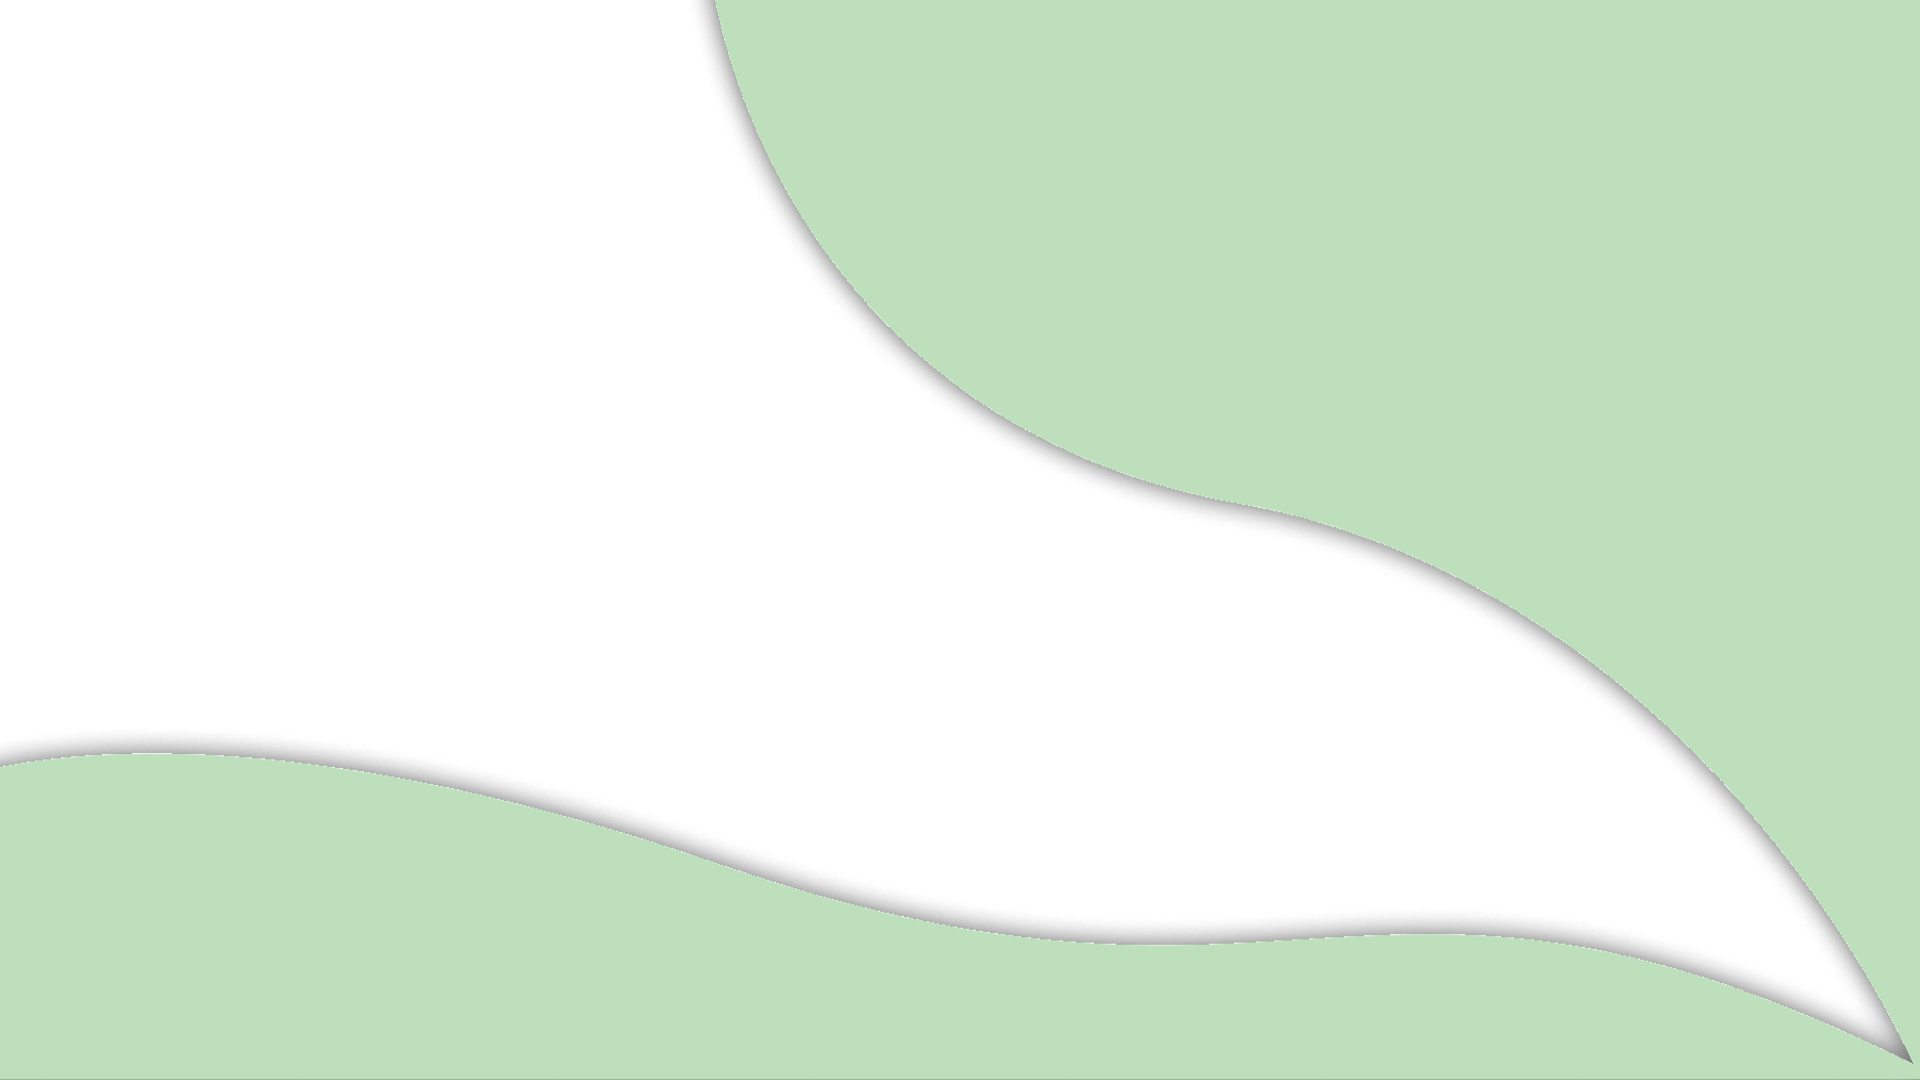
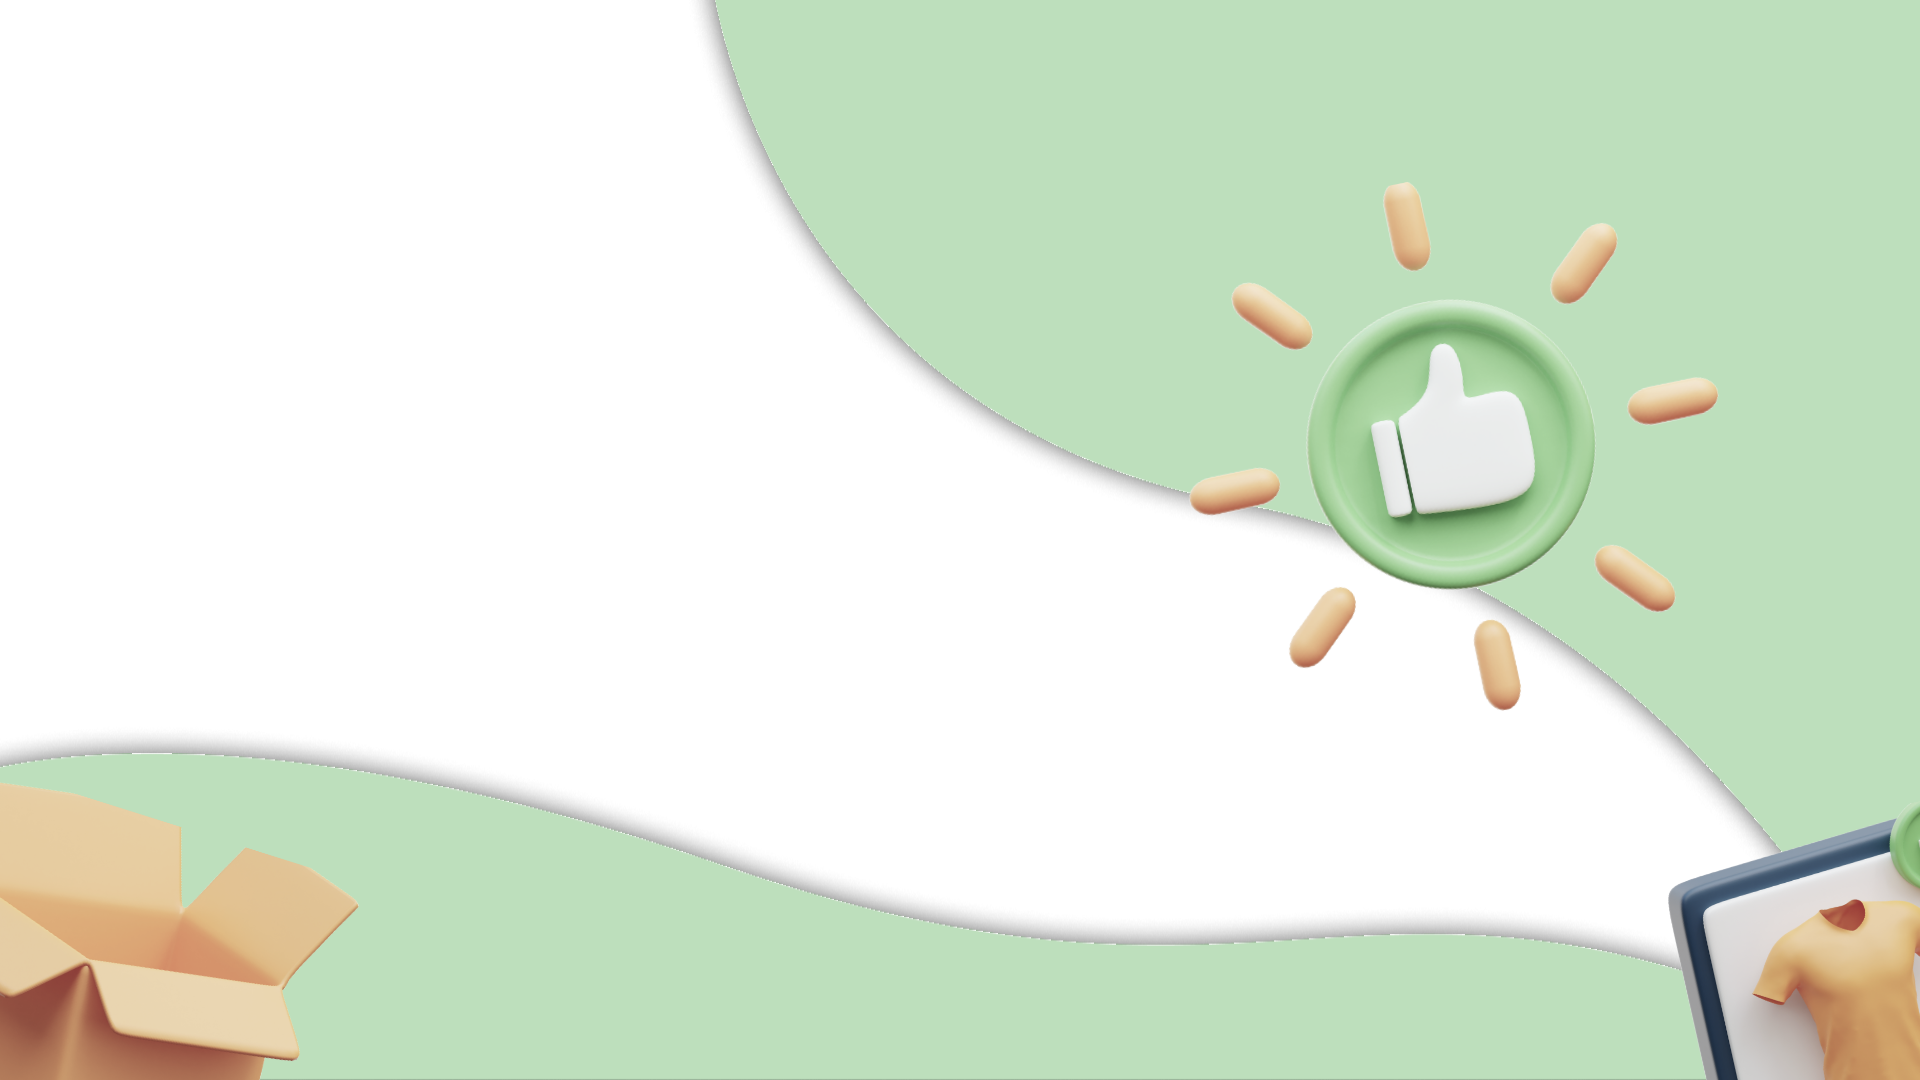
landing page changes

diff --git a/index.html b/index.html
@@ -46,19 +46,18 @@
 
                 <ul class="site-menu main-menu js-clone-nav ml-auto ">
                   <li class="active"><a href="#" class="nav-link">Home</a></li>
-                  <li><a href="#" class="nav-link">Listings</a></li>
-                  <li><a href="#" class="nav-link">Contact Us</a></li>
+                  <li><a href="listings.html" class="nav-link">Listings</a></li>
+                  <li><a href="contact.html" class="nav-link">Contact Us</a></li>
                 </ul>
 
               </nav>
             </div>
           </div>
 
-          <br><br><br><br>
           <section id="main">
             <div class="display-con">
               <div class="row">
-                <div class="col-12 col-md-10">
+                <div class="col-12 col-md-9">
                   <h1 class="display-main-1">Share resources,</h1>
                   <h1 class="display-main-2">sustainably.</h1>
                   <br>
@@ -66,7 +65,7 @@
                   <br>
                   <p><a class="btn btn-lg btn-success" href="#main" role="button">Start Now</a></p>
                 </div>
-                <div class="col-12 col-md-2"></div>
+                <div class="col-12 col-md-3"></div>
               </div>
             </div>
           </section>
@@ -75,10 +74,13 @@
             <div class="display-con-2">
               <div class="row">
                 <div class="col-12 col-md-6">
+                  <img class="asset-image" src="/images/asset-image.png" alt="">
                 </div>
                 <div class="col-12 col-md-6">
-                  <h1 class="display-main">Made for you</h1>
+                  <h1 class="display-main-2">Made for you</h1>
+                  <br>
                   <p class="lead">Our intuitive interface, powered by the Google Maps API, allows you to easily find nearby resources. Browse listings, see what's available nearby, and connect with others to start sharing!</p>
+                  <br>
                   <p><a class="btn btn-lg btn-success" href="#main" role="button">Start Now</a></p>
                 </div>
               </div>
@@ -88,13 +90,13 @@
           <section id="main-3">
             <div class="display-con-3">
               <div class="row">
-                <div class="col-12 col-md-6">
+                <div class="col-12 col-md-8">
                   <h1 class="display-main">Eco-choices</h1>
-                  <h1 class="display-main">ate every turn</h1>
+                  <h1 class="display-main">at every turn</h1>
                   <p class="lead">By participating in ShareNook, you not only gain access to the resources you need but also contribute to a more sustainable future, aligned with the UN Sustainable Development Goals.</p>
                   <p><a class="btn btn-lg btn-success" href="#main" role="button">Start Now</a></p>
                 </div>
-                <div class="col-12 col-md-6">
+                <div class="col-12 col-md-4">
                 </div>
               </div>
             </div>

diff --git a/css/style.css b/css/style.css
@@ -1,6 +1,8 @@
 body {
   font-family: "Open Sans", -apple-system, BlinkMacSystemFont, "Segoe UI", Roboto, "Helvetica Neue", Arial, "Noto Sans", sans-serif, "Apple Color Emoji", "Segoe UI Emoji", "Segoe UI Symbol", "Noto Color Emoji";
   background-color: #DBEBD9;
+  background-image: url(/images/main-bg3.png);
+  background-size: 100%;
   height: 100%;
   position: relative; }
   body:before {
@@ -36,12 +38,12 @@ a {
   a, a:hover {
     text-decoration: none !important; }
 
-.hero {
-  height: 100vh;
+/* .hero {
+  height: 100%;
   width: 100%;
-  background-image: url(/images/main-bg.png);
+  background-image: url(/images/main-bg3.png);
   background-size: 100%;
-}
+} */
 
 .site-navbar {
   margin-bottom: 0px;
@@ -70,7 +72,7 @@ a {
         float: left;
         position: relative; } }
   .site-navbar .site-navigation.border-bottom {
-    border-bottom: 1px solid white !important; }
+    border-bottom: 1px solid rgb(255, 255, 255) !important; }
   .site-navbar .site-navigation .site-menu {
     margin: 0;
     padding: 0;

diff --git a/css/styles-index.css b/css/styles-index.css
@@ -1,5 +1,26 @@
+html {
+    scroll-snap-type: y mandatory;
+}
+
+.site-navbar, #main-2, #main-3 {
+    height: 100vh;
+    scroll-snap-align: start;
+}
+
+#main {
+    padding-top: 100px;
+}
+
+#main-2 {
+    padding-top: 150px;
+}
+
+#main-3 {
+    padding-top: 150px;
+}
+
 h1 {
-    font-size: 100px;
+    font-size: 80px;
 }
 
 .display-main-2 {
@@ -7,7 +28,7 @@ h1 {
 }
 
 .lead {
-    font-size: 30px;
+    font-size: 25px;
 }
 
 .btn-success {
@@ -15,4 +36,10 @@ h1 {
     color: #000000;
     background-color: #ffffff;
     border-color: #ffffff;
+}
+
+.asset-image {
+    padding-top: 100px;
+    width: 100%;
+    height: 100%;
 }
